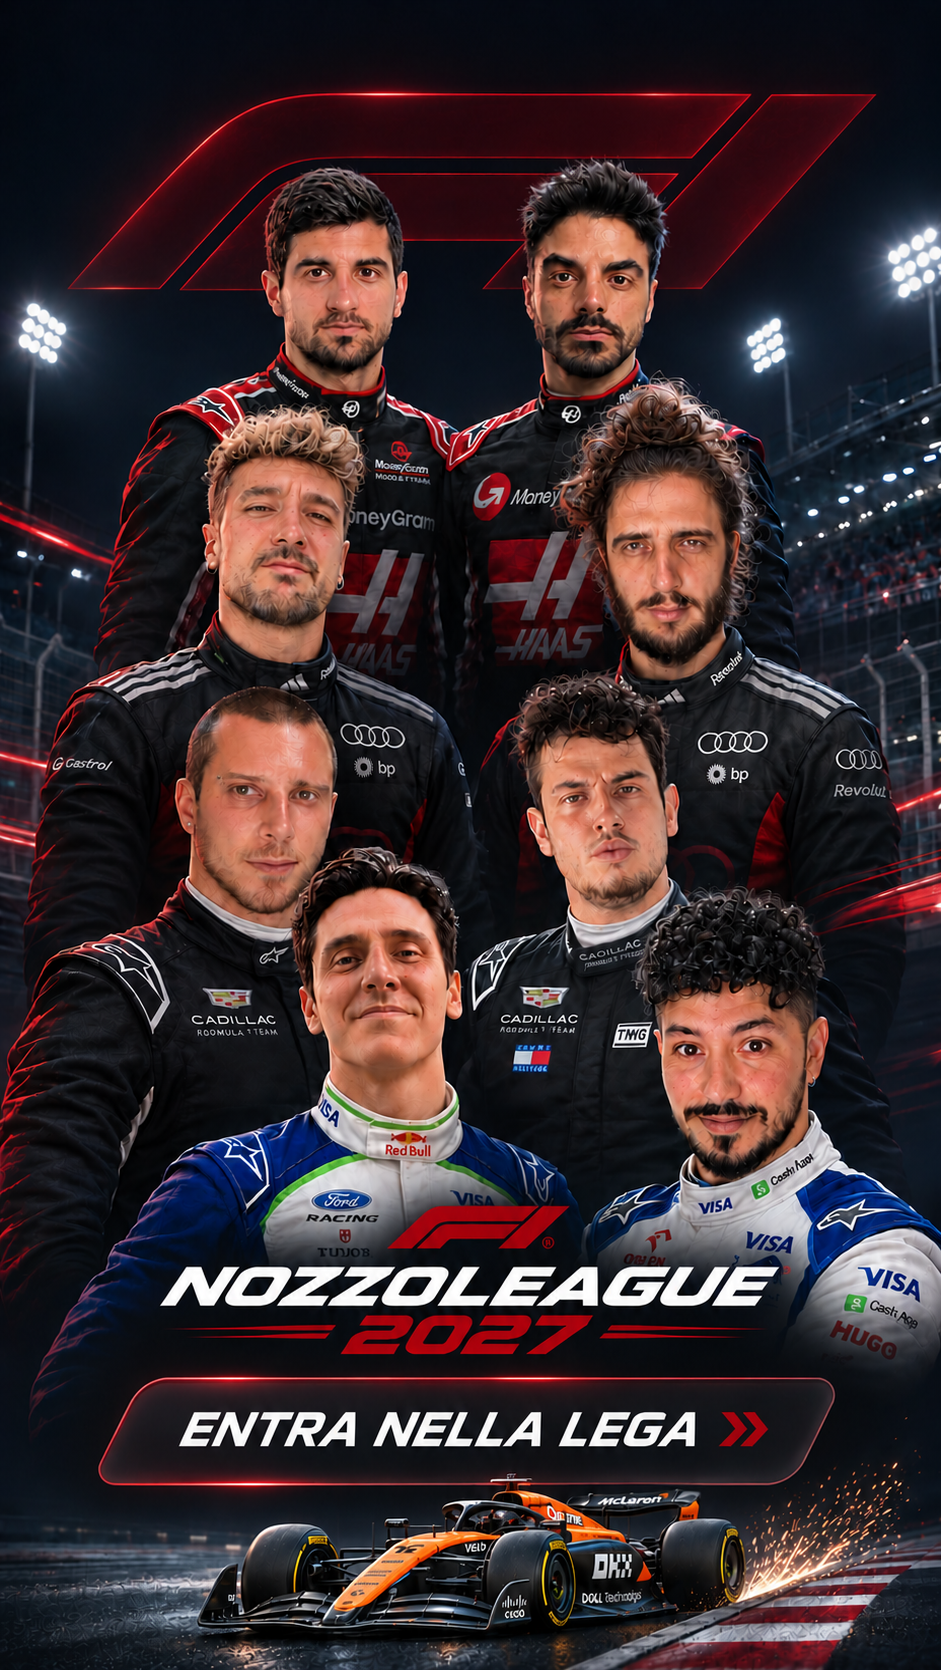
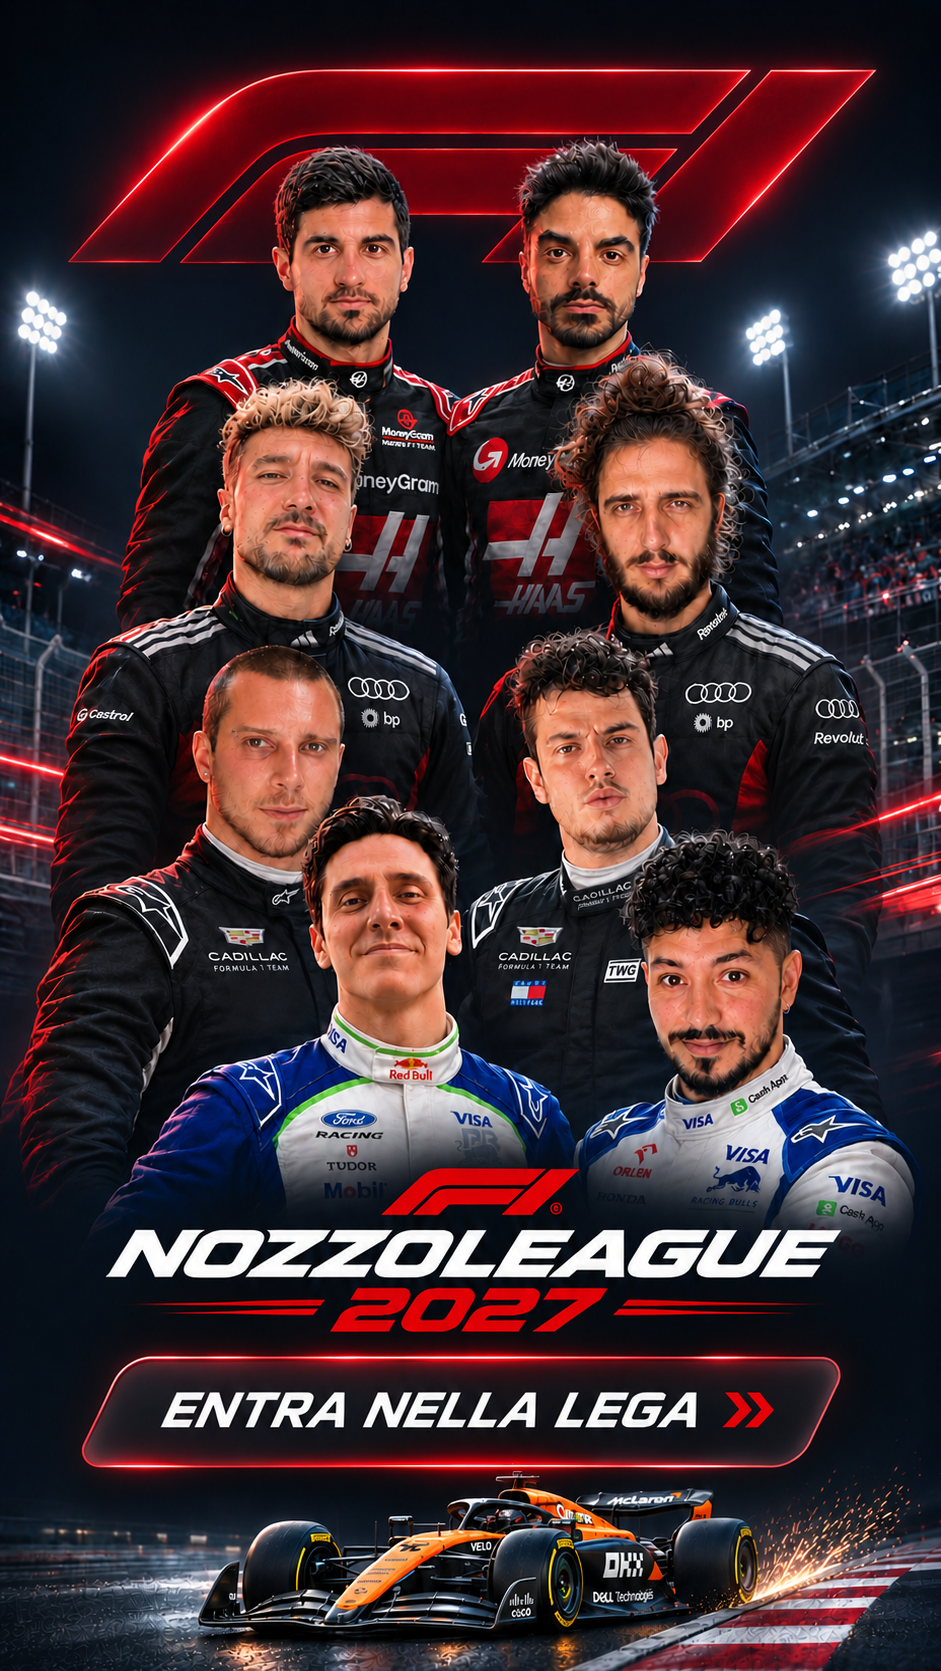
new

diff --git a/index.html b/index.html
@@ -500,14 +500,14 @@ body.nl-navigation:not(.nl-page-open)::before{background:linear-gradient(180deg,
 <meta name="apple-mobile-web-app-title" content="NozzoLeague">
 <meta name="mobile-web-app-capable" content="yes">
 
-<script type="text/javascript" src="chrome-extension://b5bae244-bc38-4730-a44e-c20f468909cd/content-script.js"></script><style id="nozzo-2027-home-update">
+<style id="nozzo-2027-home-update">
 .home-poster{inset:auto!important;left:50%!important;top:50%!important;transform:translate(-50%,-50%)!important;
- width:min(100vw,53.846dvh)!important;height:min(100dvh,185.714vw)!important;
+ width:min(100vw,56.31dvh)!important;height:auto!important;aspect-ratio:941 / 1671!important;
  background-image:url("assets/homepage-2027.png")!important;background-size:100% 100%!important;z-index:2}
 .home-overlay{pointer-events:none;opacity:0}
 .enter-league,.enter-league:hover,.enter-league:active{
- position:absolute!important;top:81.3%!important;left:50%!important;bottom:auto!important;
- transform:translateX(-50%)!important;width:82%!important;height:6.5%!important;min-width:0!important;
+ position:absolute!important;top:80.0%!important;left:50%!important;bottom:auto!important;
+ transform:translateX(-50%)!important;width:82%!important;height:7.0%!important;min-width:0!important;
  padding:0!important;background:transparent!important;border:0!important;border-radius:20px!important;
  box-shadow:none!important;color:transparent!important;font-size:0!important;cursor:pointer!important;
  -webkit-tap-highlight-color:transparent}
